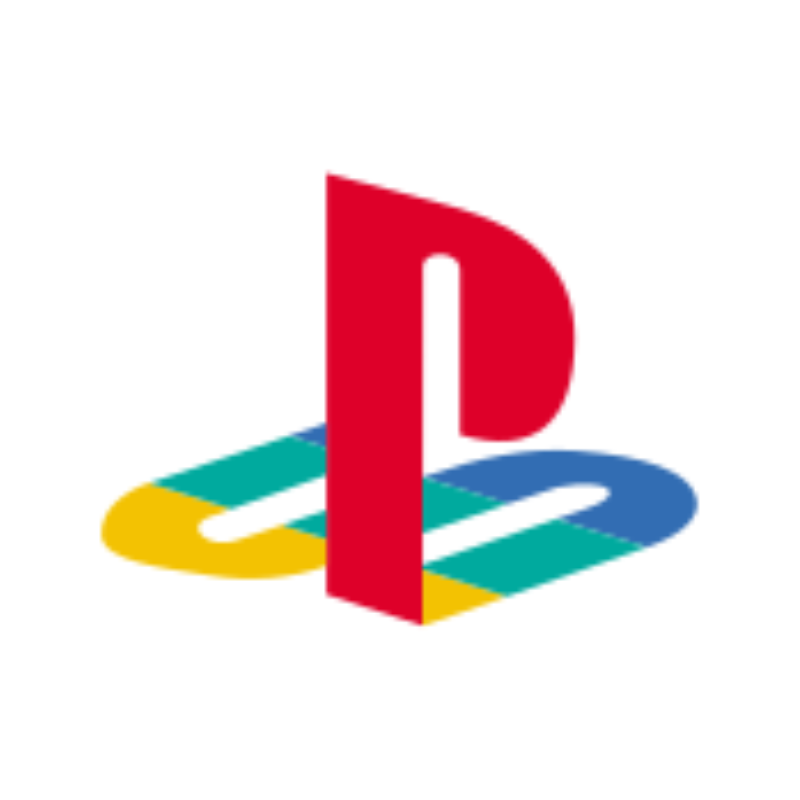
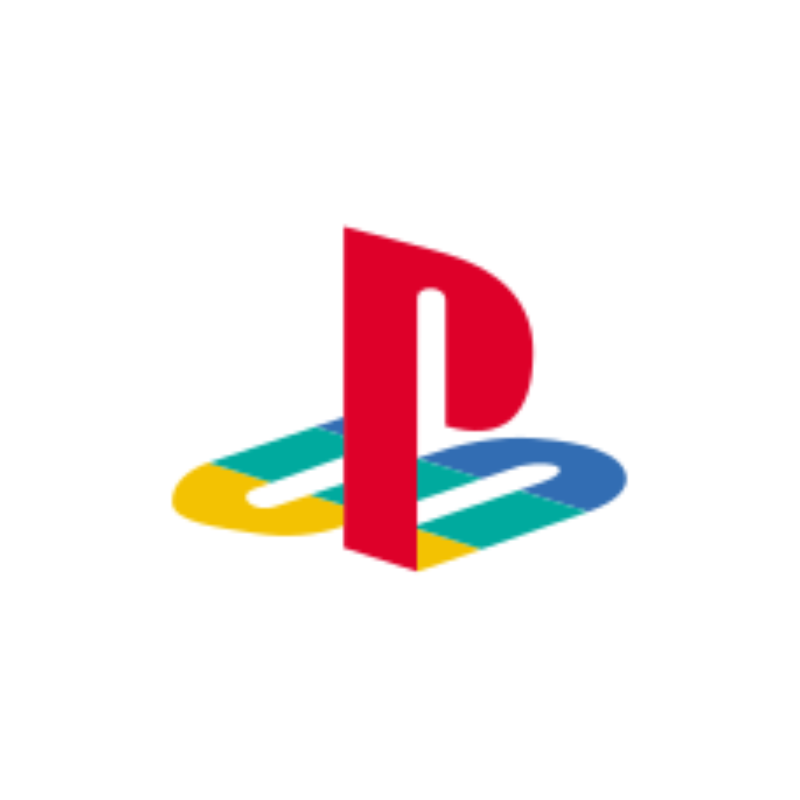
update
update

Changed region(s): [[0.125, 0.2188, 0.875, 0.7812]]

diff --git a/index.html b/index.html
@@ -536,7 +536,7 @@
 
 					<div class="bgrid folio-item">
 						<div class="item-wrap">
-							<img src="images/portfolio/playstation.png">
+							<img width="800px" src="images/portfolio/playstation.png">
 							<a href="#modal-07" class="overlay">
 								<div class="folio-item-table">
 									<div class="folio-item-cell">

diff --git a/css/main.css b/css/main.css
@@ -2660,7 +2660,11 @@ footer .copyright span:last-child::after {
   
   /* The typewriter cursor effect */
   @keyframes blink-caret {
-	from, to { border-color: transparent } 
-	{border-color: #61BCFF;}
+	from {
+		border-color: transparent 
+	} 
+	to {
+		border-color: #61BCFF;
+	}
   }
   
